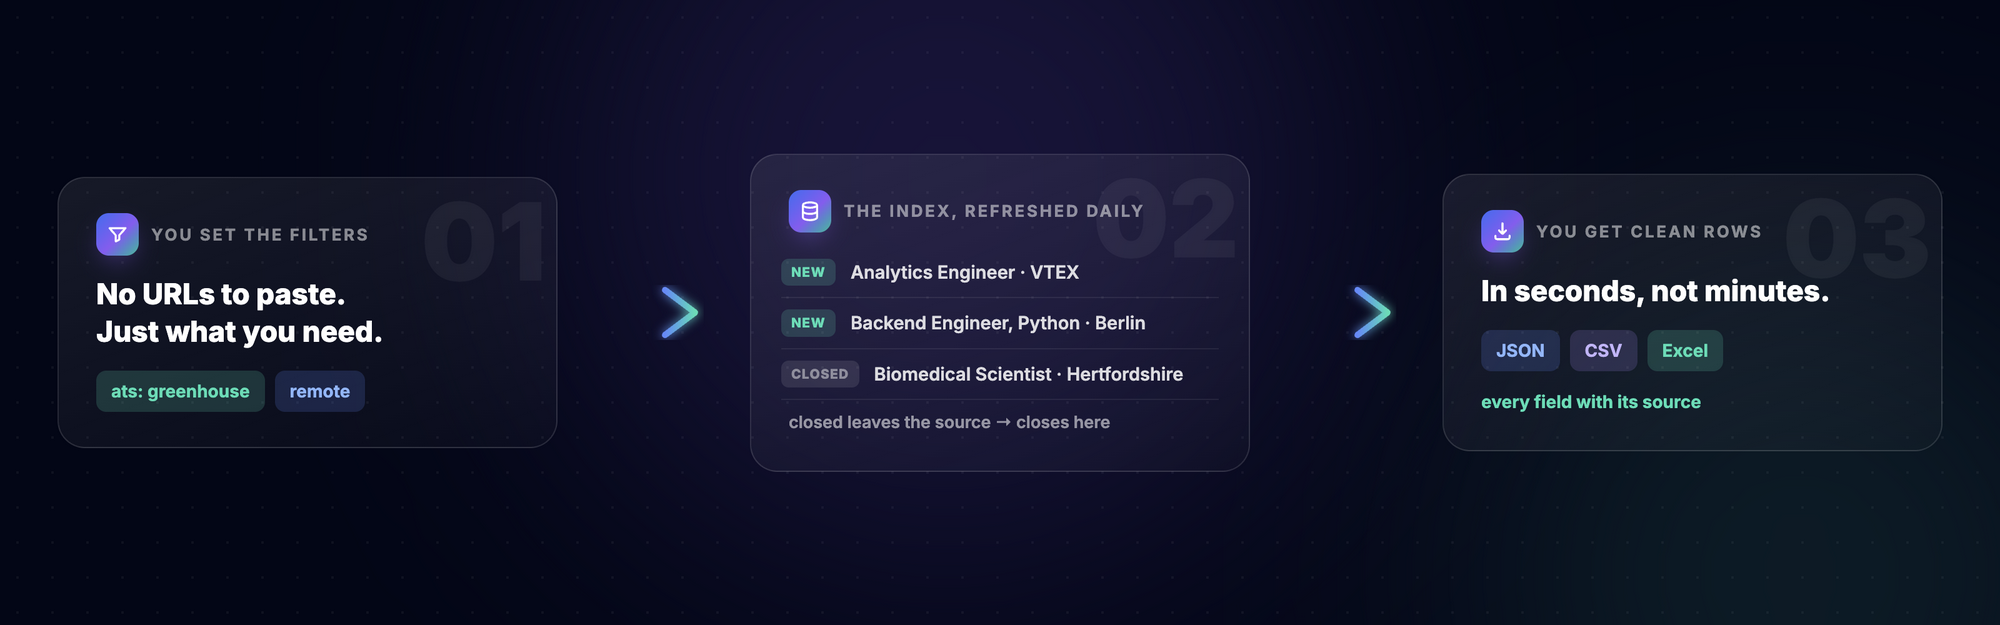
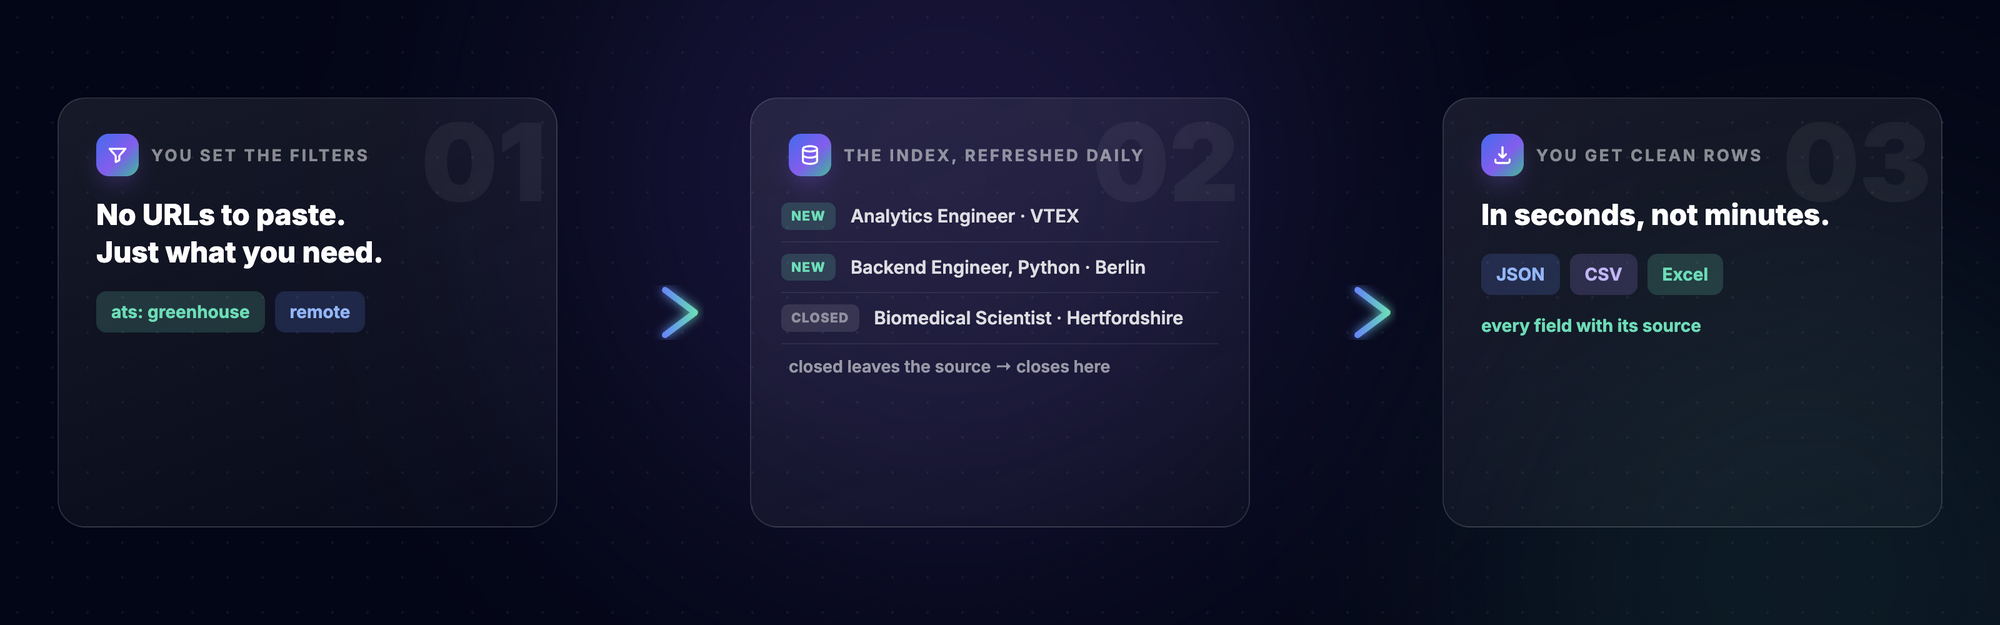
apify: prezzo di lancio /1.000 (nel campo dei seri, mai il piu' caro senza recensioni) + il diagramma nella forma definitiva: card di pari altezza, contenuto allineato, frecce con alone — il polish che Gemini chiedeva

diff --git a/apify/assets/genera_come_funziona.py b/apify/assets/genera_come_funziona.py
@@ -31,13 +31,13 @@ BADGE = {"NEW": ("rgba(47,224,182,.18)", "#2fe0b6"),
 
 def card(num, icona, titolo, corpo, extra=""):
     return f"""
-    <div style="width:400px;border-radius:22px;border:1px solid rgba(255,255,255,.12);background:linear-gradient(160deg,rgba(255,255,255,.08),rgba(255,255,255,.02));padding:28px 30px;position:relative;overflow:hidden">
+    <div style="width:400px;border-radius:22px;border:1px solid rgba(255,255,255,.12);background:linear-gradient(160deg,rgba(255,255,255,.08),rgba(255,255,255,.02));padding:28px 30px;position:relative;overflow:hidden;display:flex;flex-direction:column;height:344px">
       <span style="position:absolute;top:-14px;right:8px;font-size:86px;font-weight:900;color:rgba(255,255,255,.05);font-family:Inter">{num}</span>
       <div style="display:flex;align-items:center;gap:10px">
         <span style="width:34px;height:34px;border-radius:10px;background:linear-gradient(135deg,#3b6ef6,#8b5cf6 55%,#0fbf9a);display:grid;place-items:center;box-shadow:0 8px 20px -6px rgba(139,92,246,.5)">{ICONA[icona]}</span>
         <p style="margin:0;color:rgba(255,255,255,.5);font-size:13px;font-weight:700;letter-spacing:.14em;font-family:Inter">{titolo}</p>
       </div>
-      <div style="margin-top:16px">{corpo}</div>{extra}
+      <div style="margin-top:16px;flex:1;display:flex;flex-direction:column">{corpo}</div>{extra}
     </div>"""
 
 

diff --git a/apify/README.md b/apify/README.md
@@ -37,7 +37,7 @@ Every result set is a slice of the same index we sell as a full daily feed.
 
 ## How much does it cost — and why is a row worth more here?
 
-**$6 per 1,000 rows received** — nothing for empty filters, nothing upfront. On Apify's free plan, your monthly free usage covers your first hundreds of rows.
+**$3 per 1,000 rows received** — nothing for empty filters, nothing upfront. On Apify's free plan, your monthly free usage covers your first hundreds of rows.
 
 A fair question: raw-scrape actors charge cents per thousand. A raw row is a title and a link that may be dead by tonight. Our row is an **enriched, verified record**: classified seniority and workplace, measured skills and language, salary signal, a link to the company's spine record, and the source of every field — closed out of the index the day it leaves the source. You are not paying for a scrape; you are paying for the maintenance.
 

diff --git a/apify/greenhouse-jobs-dataset/README.md b/apify/greenhouse-jobs-dataset/README.md
@@ -37,7 +37,7 @@ filters** — the reading already happened today, whether you run us or not.
 
 ## How much does a Greenhouse jobs dataset cost?
 
-**$6 per 1,000 rows received** — nothing for empty filters, nothing upfront. Apify's free plan covers your first hundreds of rows.
+**$3 per 1,000 rows received** — nothing for empty filters, nothing upfront. Apify's free plan covers your first hundreds of rows.
 
 Why a row here costs more than a raw scrape: a raw row is a title and a link that may be dead by tonight. Ours is an **enriched, verified record** — classified, provenance-stamped, and closed out of the index the day it leaves the source. You are not paying for a scrape; you are paying for the maintenance.
 

diff --git a/apify/workday-jobs-dataset/README.md b/apify/workday-jobs-dataset/README.md
@@ -37,7 +37,7 @@ filters** — the reading already happened today, whether you run us or not.
 
 ## How much does a Workday jobs dataset cost?
 
-**$6 per 1,000 rows received** — nothing for empty filters, nothing upfront. Apify's free plan covers your first hundreds of rows.
+**$3 per 1,000 rows received** — nothing for empty filters, nothing upfront. Apify's free plan covers your first hundreds of rows.
 
 Why a row here costs more than a raw scrape: a raw row is a title and a link that may be dead by tonight. Ours is an **enriched, verified record** — classified, provenance-stamped, and closed out of the index the day it leaves the source. You are not paying for a scrape; you are paying for the maintenance.
 

diff --git a/apify/jobs-by-technology/README.md b/apify/jobs-by-technology/README.md
@@ -38,7 +38,7 @@ filters** — the reading already happened today, whether you run us or not.
 
 ## How much does it cost?
 
-**$6 per 1,000 rows received** — nothing for empty filters, nothing upfront. Apify's free plan covers your first hundreds of rows.
+**$3 per 1,000 rows received** — nothing for empty filters, nothing upfront. Apify's free plan covers your first hundreds of rows.
 
 Why a row here costs more than a raw scrape: a raw row is a title and a link that may be dead by tonight. Ours is an **enriched, verified record** — classified, provenance-stamped, and closed out of the index the day it leaves the source. You are not paying for a scrape; you are paying for the maintenance.
 
